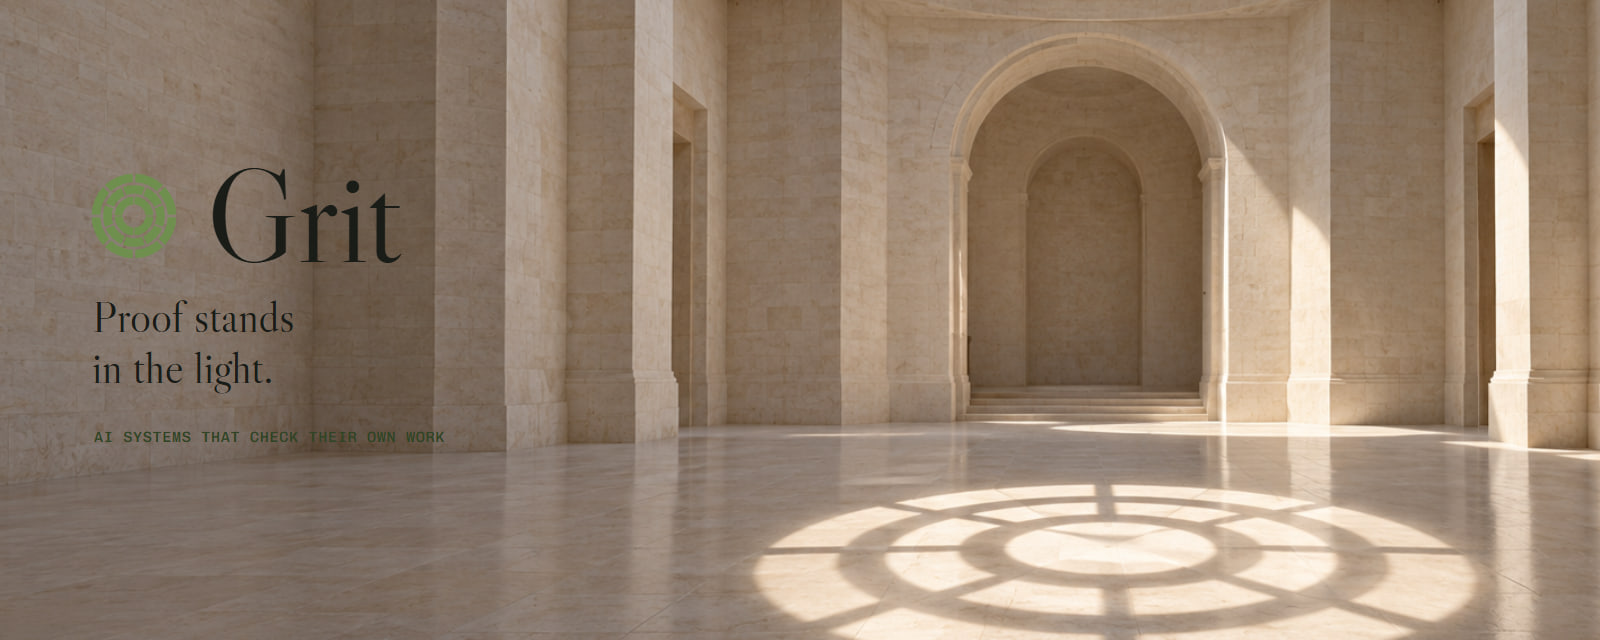
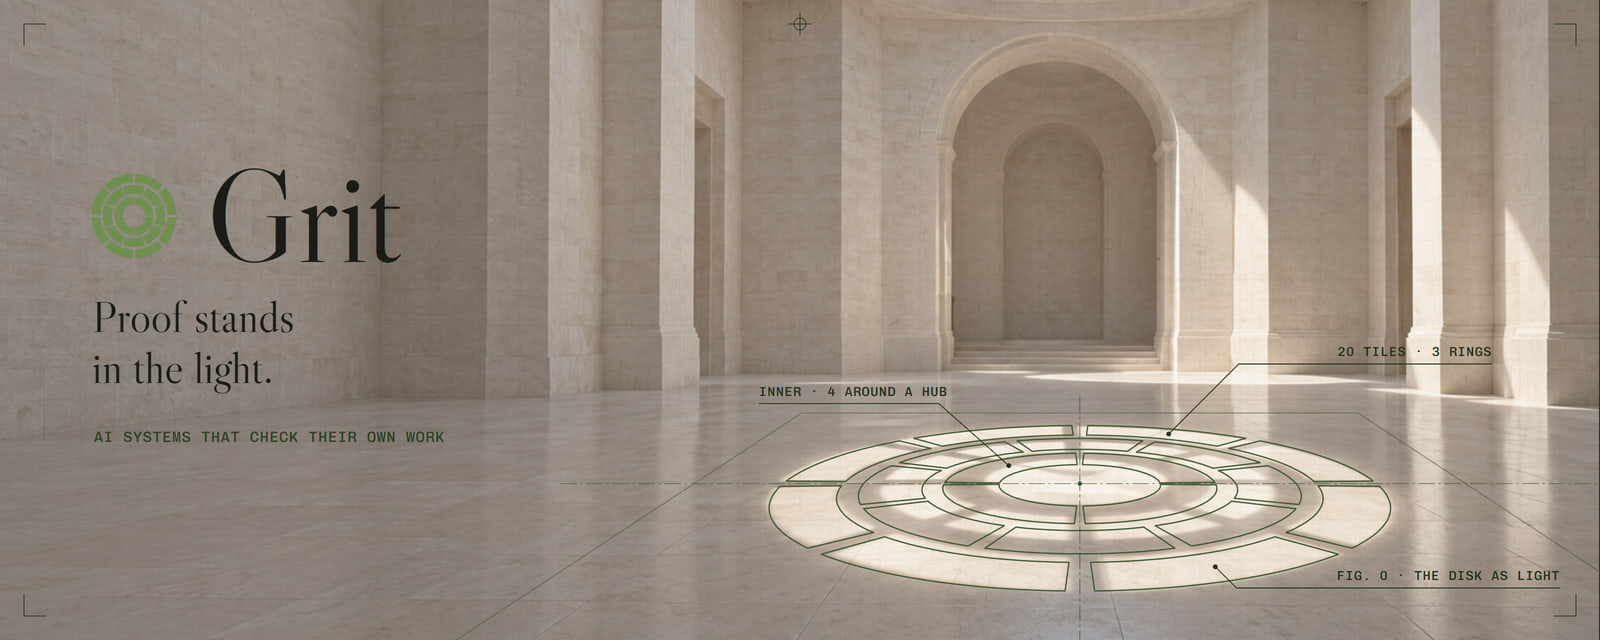
Profile README: technology-first images, RADAR before services
New hall banner with the disk drawn as an engineering overlay, new RADAR
banner with a sample readout, and the real chart-room home screen in place
of the loop diagram. Banners link to the site; the dead how-it-works link
points at /radar/#how; the loop is one line of text; the figure and its
receipt are unchanged and link to where the site draws them; early access
asks for a place; services and footer are shorter.

diff --git a/README.md b/README.md
@@ -1,47 +1,50 @@
 <p align="center">
-  <img src="assets/grit-banner.jpg" alt="Grit. Proof stands in the light. A limestone hall where sunlight, falling through a round grille, draws the Grit disk on the floor." width="100%">
+  <a href="https://grit.grit-77.workers.dev"><img src="assets/grit-banner.jpg" alt="Grit. Proof stands in the light. AI systems that check their own work. A limestone hall with the Grit disk drawn on the floor as an engineering overlay: three rings of tiles around a hub, labelled like a technical figure." width="100%"></a>
 </p>
 
 <p align="center">
   <a href="https://grit.grit-77.workers.dev">Website</a> ·
   <a href="https://grit.grit-77.workers.dev/radar/">RADAR</a> ·
-  <a href="https://grit.grit-77.workers.dev/radar/how-it-works/">How RADAR works</a> ·
+  <a href="https://grit.grit-77.workers.dev/radar/#how">How RADAR works</a> ·
   <a href="https://grit.grit-77.workers.dev/company/">Company</a> ·
   <a href="https://grit.grit-77.workers.dev/contact/">Contact</a>
 </p>
 
-**Grit builds AI systems that check their own work.** We connect a company's data, automate its work, and run it with systems that check their own results. Founded in Ankara in June 2026.
-
-An AI agent that says *done* has made a claim. Everything we build is closed by a check that runs again, not by the claim.
-
-## What we do
-
-- **Websites.** Designed and built with you, from the first draft to the live site: accessible, quick to load, and in the languages your visitors read. For companies and individuals.
-- **AI automations.** Repetitive work handled by AI, the same steps done the same way each time. Every result is checked before it is used.
-- **Autonomous systems.** Agents that carry a piece of work from start to finish, built the way RADAR works: a task closes only when its test passes again.
-- **Data.** Scattered data brought together in one place and cleaned, so it is reliable enough to work with and to decide on.
+**Grit builds AI systems that check their own work.** An AI agent that says *done* has made a claim; everything we build closes on a check that runs again, not on the claim. Our product is RADAR. For companies and individuals we also build websites, AI automations and autonomous systems, and bring scattered data into one place.
 
 ## RADAR
 
 <p align="center">
-  <img src="assets/radar-banner.jpg" alt="RADAR. A claim is not a result; RADAR reruns the test. A radio dish at blue hour with one green light." width="100%">
+  <a href="https://grit.grit-77.workers.dev/radar/"><img src="assets/radar-banner.jpg" alt="RADAR. A claim is not a result; RADAR reruns the test. Runs Claude Code, Codex CLI, OMP and Hermes Agent. A radio dish at blue hour inside radar-scope rings, with a sample readout: verify pass, attempt 1 of 3, aground 0." width="100%"></a>
 </p>
 
-RADAR is our product. It runs the AI coding agents you already use (Claude Code, Codex CLI, OMP and Hermes Agent) and closes a task only after it reruns the acceptance test itself.
+RADAR runs the AI coding agents you already use (Claude Code, Codex CLI, OMP and Hermes Agent) and closes a task only after it reruns the acceptance test itself. It grew out of the infrastructure we use for our own work.
+
+The test is written first → an agent works in its own copy of the project → it says *done*, recorded as a claim → RADAR reruns the test → it passes: the task closes and the proof is kept · it fails: the task reopens with the failure attached.
 
 <p align="center">
-  <img src="assets/loop.png" alt="The task loop: a task and its acceptance test are written first; one owner works in its own copy of the project; the agent says done, which is recorded as a claim; RADAR reruns the test. If it passes, the task closes and the proof is kept. If it fails, the task reopens with the failure attached; after three attempts another agent takes over, and after three more the task waits for a person." width="100%">
+  <img src="assets/product.png" alt="RADAR's chart room, its home screen in a terminal, with sample data: a chart of machines and the busy worker slots on each, the LOG of tasks, NEXT for what needs a person, ARRIVALS per hour, token use per machine and the COMMANDS list." width="100%">
 </p>
+<p align="center"><sub>The chart room, RADAR's home screen in a terminal, with sample data.</sub></p>
 
 > In Grit's own work (20-28 Sep 2026), workers running one coding agent reported a task as finished 1,608 times (1,457 tasks); Grit's immediate re-run of the acceptance commands on the same server failed on 74 of those reports (4.6%). A claim alone does not close a task.
 >
 > <sub>Grit internal ledger, snapshot 28 Sep 2026 06:00 UTC. Observed, not a controlled comparison.</sub>
 
-- **For individuals:** an open edition, open source (Apache-2.0) at public release. [Early access is open now.](https://grit.grit-77.workers.dev/contact/?topic=radar)
+[The website draws the figure, one square per report.](https://grit.grit-77.workers.dev/radar/#benchmark)
+
+- **For individuals:** an open edition, open source (Apache-2.0) at public release. In early access now: [ask for a place.](https://grit.grit-77.workers.dev/contact/?topic=radar)
 - **For companies:** a company edition, in development. [Talk to us.](https://grit.grit-77.workers.dev/contact/?topic=radar-company)
+
+## What we do
+
+- **Websites**, designed and built with you from the first draft to the live site: accessible, quick to load, in your visitors' languages.
+- **AI automations**: repetitive work done the same way each time, every result checked before it is used.
+- **Autonomous systems**: agents that carry a piece of work from start to finish; a task closes only when its test passes again.
+- **Data**: scattered data brought into one place and cleaned, reliable enough to decide on.
 
 ## Write to us
 
 [radarbygrit@gmail.com](mailto:radarbygrit@gmail.com) · [X @gritradar_ai](https://x.com/gritradar_ai) · [Instagram @gritradar.ai](https://www.instagram.com/gritradar.ai/)
 
-<sub>Grit · Ankara · The website reads in 24 languages.</sub>
+<sub>Grit · Ankara · founded June 2026 · <a href="https://grit.grit-77.workers.dev">grit.grit-77.workers.dev</a></sub>
